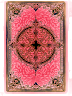
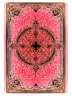
ScriptIDE: fix Hearts sprite frame flicker

diff --git a/uppsrc/ScriptIDE/CardGamePlugin.cpp b/uppsrc/ScriptIDE/CardGamePlugin.cpp
@@ -637,14 +637,21 @@ void CardGameDocumentHost::DrainUiQueue()
 	for(int i = 0; i < cmds.GetCount(); i++)
 		cmds[i]();
 
-	PruneInactiveSprites();
-	if(!refresh_running && ui_batch_depth <= 0 && CheckExpectedSpriteCounts())
-		return;
+	if(ui_batch_depth <= 0) {
+		PruneInactiveSprites();
+		if(!refresh_running && CheckExpectedSpriteCounts())
+			return;
+	}
 	SyncFormControls();
 	SyncFormExplorer();
 	table_form.Refresh();
 	overlay.Refresh();
 	Refresh();
+}
+
+void CardGameDocumentHost::ApplyBeginSpriteFrame()
+{
+	active_cards.Clear();
 }
 
 void CardGameDocumentHost::ApplyClearSprites()
@@ -979,6 +986,16 @@ void CardGameDocumentHost::SetLayout(const String& path)
 }
 
 // IHeartsView implementation
+
+void CardGameDocumentHost::BeginSpriteFrame()
+{
+	if(IsMainThread()) {
+		ApplyBeginSpriteFrame();
+		DrainUiQueue();
+	}
+	else
+		QueueUiCommand([=] { ApplyBeginSpriteFrame(); });
+}
 
 void CardGameDocumentHost::ClearSprites()
 {

diff --git a/uppsrc/ScriptCommon/CardGamePlugin.cpp b/uppsrc/ScriptCommon/CardGamePlugin.cpp
@@ -16,6 +16,11 @@ static PyValue hv_clear_sprites(const Vector<PyValue>& args, void*)
 	return PyValue::None();
 }
 
+static PyValue hv_begin_sprite_frame(const Vector<PyValue>& args, void*)
+{
+	return PyValue::None();
+}
+
 static PyValue hv_remove_sprite(const Vector<PyValue>& args, void*)
 {
 	return PyValue::None();
@@ -342,6 +347,12 @@ static PyValue hv_gui_clear_sprites(const Vector<PyValue>&, void* ud)
 	return PyValue::None();
 }
 
+static PyValue hv_gui_begin_sprite_frame(const Vector<PyValue>&, void* ud)
+{
+	((IHeartsView*)ud)->BeginSpriteFrame();
+	return PyValue::None();
+}
+
 static PyValue hv_gui_remove_sprite(const Vector<PyValue>& args, void* ud)
 {
 	if(args.GetCount() >= 1)
@@ -434,6 +445,7 @@ void CardGamePlugin::SyncBindings(PyVM& vm)
 		PY_MODULE(hearts_view, vm)
 		PY_MODULE_FUNC(log,           hv_gui_log,           view)
 		PY_MODULE_FUNC(clear_sprites, hv_gui_clear_sprites, view)
+		PY_MODULE_FUNC(begin_sprite_frame, hv_gui_begin_sprite_frame, view)
 		PY_MODULE_FUNC(remove_sprite, hv_gui_remove_sprite, view)
 		PY_MODULE_FUNC(set_label,     hv_gui_set_label,     view)
 		PY_MODULE_FUNC(set_expected_sprite_count, hv_gui_set_expected_sprite_count, view)
@@ -451,6 +463,7 @@ void CardGamePlugin::SyncBindings(PyVM& vm)
 		PY_MODULE(hearts_view, vm)
 		PY_MODULE_FUNC(log,           hv_log,           nullptr)
 		PY_MODULE_FUNC(clear_sprites, hv_clear_sprites, nullptr)
+		PY_MODULE_FUNC(begin_sprite_frame, hv_begin_sprite_frame, nullptr)
 		PY_MODULE_FUNC(remove_sprite, hv_remove_sprite, nullptr)
 		PY_MODULE_FUNC(set_label,     hv_set_label,     nullptr)
 		PY_MODULE_FUNC(set_expected_sprite_count, hv_set_expected_sprite_count, nullptr)

diff --git a/uppsrc/ScriptCommon/PluginInterfaces.h b/uppsrc/ScriptCommon/PluginInterfaces.h
@@ -54,6 +54,8 @@ public:
 class IHeartsView {
 public:
 	virtual ~IHeartsView() {}
+	// Start a new sprite frame; sprites not touched in this frame are pruned by the host.
+	virtual void BeginSpriteFrame() = 0;
 	// Place/update a card sprite at absolute pixel position
 	virtual void SetCard(const String& card_id, const String& asset_path, int x, int y, int rotation_deg = 0) = 0;
 	// Move card sprite to the center of a named zone

diff --git a/uppsrc/ScriptIDE/CardGamePlugin.h b/uppsrc/ScriptIDE/CardGamePlugin.h
@@ -92,6 +92,7 @@ public:
 	virtual String DumpPythonStack() const override;
 
 	// IHeartsView
+	virtual void  BeginSpriteFrame() override;
 	virtual void  SetCard(const String& card_id, const String& asset_path, int x, int y, int rotation_deg = 0) override;
 	virtual void  MoveCardToZone(const String& card_id, const String& zone_id, int offset, bool animated) override;
 	virtual Value GetZoneRect(const String& zone_id) override;
@@ -201,6 +202,7 @@ private:
 	void QueueUiCommand(Function<void ()> fn);
 	void ScheduleUiFlush();
 	void DrainUiQueue();
+	void ApplyBeginSpriteFrame();
 	void ApplyClearSprites();
 	void ApplyRemoveSprite(const String& card_id);
 	void ApplySetExpectedSpriteCount(const String& zone_id, int count);

diff --git a/uppsrc/ScriptIDE/reference/Hearts/main.py b/uppsrc/ScriptIDE/reference/Hearts/main.py
@@ -489,6 +489,7 @@ def refresh_ui():
         rendered_hand_ids = []
         current_hand_ids_for_assert = []
         current_trick_ids_for_assert = []
+    hearts_view.begin_sprite_frame()
     assert_state_invariants("refresh_ui")
     update_hud()
 